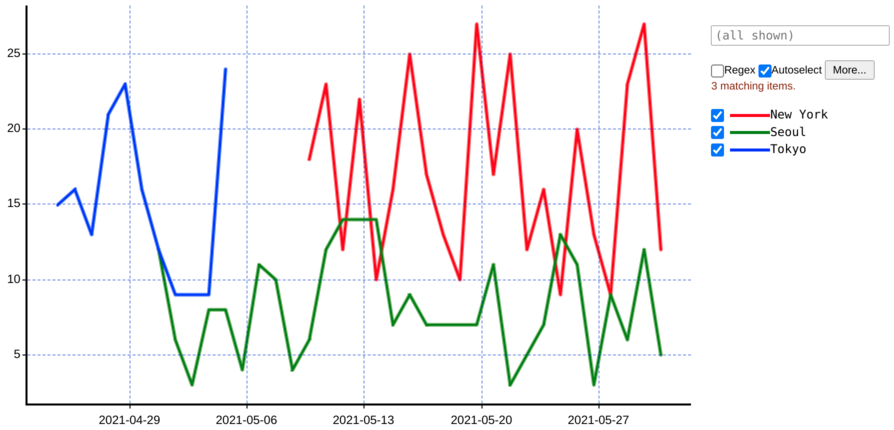
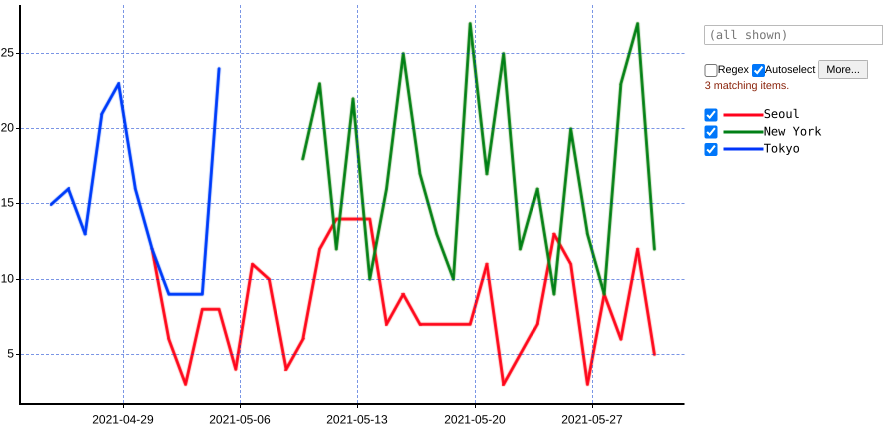
Added `groupby` as a convenient alternative for `start_idxs`.

diff --git a/src/croquis/fig_data.py b/src/croquis/fig_data.py
@@ -6,7 +6,7 @@ import logging
 
 import numpy as np
 
-from . import color_util
+from . import color_util, data_util
 from .buf_util import ensure_buffer
 
 logger = logging.getLogger(__name__)
@@ -17,6 +17,10 @@ class FigData(object):
         # cycles.
         self.start_item_id = parent.next_item_id
         self.item_cnt = 0  # Should be filled in by subclass.
+
+        # For checking that the parameters have consistent dimensions.
+        self.dim_info = []
+        self.dims = collections.defaultdict(dict)
 
     # Subclasses may override this.  The default function assumes the existence
     # of self.colors.
@@ -76,15 +80,31 @@ class FigData(object):
             'data_y': _data_coord('y', Y[best_idx]),
         }
 
-    def _get_dims(self, name, data, dim_names, min_dims=1):
+    # Record the dimensions of parameter `data` (with name `name`), where each
+    # dimension is named using `dim_names`.
+    #
+    # If multi-dimensional lists are possible (e.g., X = [[1,2],[3,4]]), the
+    # caller must first call ensure_buffer() (which in turn numpy-fies the data)
+    # so that we can infer the correct dimension.
+    #
+    # Due to broadcast logic, not all dimensions need to be present.  E.g., if
+    # dim_names == ('lines', 'pts'), then `data` can have shape (200,), in which
+    # case we only record `pts == 200` (`lines` will be absent).
+    def _record_dims(self, name, data, dim_names, min_dims=1):
         assert type(dim_names) == tuple
-        self.dim_info.append((name, data.shape))
+        try:
+            shape = data.shape
+        except AttributeError:
+            shape = (len(data),)
 
-        assert min_dims <= len(data.shape) <= len(dim_names)
-        dim_names = dim_names[-len(data.shape):]
-        for dim_name, sz in zip(dim_names, data.shape):
+        self.dim_info.append((name, shape))
+
+        assert min_dims <= len(shape) <= len(dim_names)
+        dim_names = dim_names[-len(shape):]
+        for dim_name, sz in zip(dim_names, shape):
             self.dims[dim_name][name] = sz
 
+    # Verify that the dimensions recorded via _record_dims() are consistent.
     def _verify_dims(self, dim_name, default=None, must=None):
         def _raise(msg):
             raise ValueError(
@@ -136,12 +156,10 @@ class RectangularLineData(FigData):
         # `lines`: number of lines (= items).
         # `pts`: number of points per line.
         # `rgb': duh.
-        self.dim_info = []
-        self.dims = collections.defaultdict(dict)
-        self._get_dims('X', self.X, ('lines', 'pts'))
-        self._get_dims('Y', self.Y, ('lines', 'pts'))
+        self._record_dims('X', self.X, ('lines', 'pts'))
+        self._record_dims('Y', self.Y, ('lines', 'pts'))
         if colors is not None:
-            self._get_dims('colors', self.colors, ('lines', 'rgb'))
+            self._record_dims('colors', self.colors, ('lines', 'rgb'))
 
         self.item_cnt = self._verify_dims('lines', 1)
         self.pts_cnt = self._verify_dims('pts')
@@ -176,28 +194,42 @@ class FreeformLineData(FigData):
         copy_data = kwargs.pop('copy_data', True)
         self.X = ensure_buffer(X, copy_data=copy_data)
         self.Y = ensure_buffer(Y, copy_data=copy_data)
-        self.start_idxs = ensure_buffer(
-            kwargs.pop('start_idxs'), copy_data=copy_data)
+        self._record_dims('X', self.X, ('pts',))
+        self._record_dims('Y', self.Y, ('pts',))
+
+        if 'groupby' in kwargs:
+            assert 'start_idxs' not in kwargs, \
+                   '`groupby` and `start_idxs` cannot appear together!'
+            groupby = kwargs.pop('groupby')
+
+            self._record_dims('groupby', groupby, ('pts',))
+            self.total_pts_cnt = self._verify_dims('pts')
+
+            unique_keys, idxs, start_idxs = data_util.compute_groupby(groupby)
+
+            self._record_dims('unique_keys', unique_keys, ('lines',))
+
+            self.X = ensure_buffer((np.asarray(self.X))[idxs], copy_data=False)
+            self.Y = ensure_buffer((np.asarray(self.Y))[idxs], copy_data=False)
+            self.start_idxs = ensure_buffer(start_idxs, copy_data=False)
+
+            if ('label' not in kwargs) and ('labels' not in kwargs):
+                kwargs['labels'] = [str(k) for k in unique_keys]
+
+        else:
+            self.start_idxs = ensure_buffer(
+                kwargs.pop('start_idxs'), copy_data=copy_data)
+            self._record_dims('start_idxs', self.start_idxs, ('lines',))
+            self.total_pts_cnt = self._verify_dims('pts')
+
         if colors is not None:
             self.colors = ensure_buffer(colors, copy_data=copy_data)
-
-        # `lines`: number of lines (= items).
-        # `pts`: number of *all* the points.
-        # `rgb': duh.
-        self.dim_info = []
-        self.dims = collections.defaultdict(dict)
-        self._get_dims('X', self.X, ('pts',))
-        self._get_dims('Y', self.Y, ('pts',))
-        self._get_dims('start_idxs', self.start_idxs, ('lines',))
-        if colors is not None:
-            self._get_dims('colors', self.colors, ('lines', 'rgb'))
-
-        self.item_cnt = self._verify_dims('lines', 1)
-        self.total_pts_cnt = self._verify_dims('pts')
-
-        if colors is not None:
+            self._record_dims('colors', self.colors, ('lines', 'rgb'))
+            self.item_cnt = self._verify_dims('lines', 1)
             self._verify_dims('rgb', must=3)
+
         else:
+            self.item_cnt = self._verify_dims('lines', 1)
             self.colors = ensure_buffer(
                 color_util.default_colors(self.start_item_id, self.item_cnt))
 
@@ -224,7 +256,7 @@ class FreeformLineData(FigData):
 # Create a figure of the appropriate class.
 # TODO: Support other types!
 def create_fig_data(parent, *args, **kwargs):
-    if 'start_idxs' in kwargs:
+    if ('start_idxs' in kwargs) or ('groupby' in kwargs):
         return FreeformLineData(parent, *args, **kwargs)
     else:
         return RectangularLineData(parent, *args, **kwargs)

diff --git a/src/croquis/data_util.py b/src/croquis/data_util.py
@@ -1,0 +1,50 @@
+# Miscellaneous utility functions for shuffling data.
+
+import numpy as np
+
+# Given a numpy array `keys` where the same key may be repeated multiple times,
+# construct the following:
+#
+# - `unique_keys`: contains each key just once, in the order they appear first.
+# - `idxs`: a map for shuffling data in `keys` so that key values are grouped
+#           together.
+# - `start_idxs`: contains the start index of each unique key in keys[idxs].
+#
+# For example if
+#   keys == ['foo', 'foo', 'bar', 'foo', 'qux', 'baz', 'baz', 'qux', 'baz'],
+#            0      1      2      3      4      5      6      7      8
+#   (total 9 rows with 4 unique keys)
+#
+# then the intermediate variables below are:
+#   unique == ['bar', 'baz', 'qoo', 'qux']
+#   idxs0 == [2 5 0 4]
+#   inverse == [2 2 0 2 3 1 1 3 1]
+#   counts == [1 3 3 2]
+#
+#   order = [2 0 3 1]
+#
+# and the return values are:
+#   unique_keys = ['foo', 'bar', 'qux', 'baz']  # in the order they appear
+#   idxs = [0 1 3 2 4 7 5 6 8]  # 0 1 3 == foo
+#                               # 2     == bar
+#                               # 4 7   == qux
+#                               # 5 6 8 == baz
+#   start_idxs = [0, 3, 4, 6, (9)]  # Only returns the first 4 numbers.
+def compute_groupby(keys):
+    unique, idxs0, inverse, counts = np.unique(
+        keys, return_index=True, return_inverse=True, return_counts=True)
+
+    order = np.argsort(idxs0, kind='stable')
+
+    try:
+        # This will succeed if `keys` is a numpy array.
+        unique_keys = keys[idxs0[order]]
+    except TypeError:
+        unique_keys = [keys[idxs0[i]] for i in order]
+
+    idxs = np.argsort(idxs0[inverse], kind='stable')
+
+    start_idxs = np.zeros(dtype=np.int64, shape=(len(unique_keys) + 1))
+    np.cumsum(counts[order], out=start_idxs[1:])
+
+    return unique_keys, idxs, start_idxs[:-1]

diff --git a/src/croquis/tests/data_util_test.py b/src/croquis/tests/data_util_test.py
@@ -1,0 +1,53 @@
+#!/usr/bin/env python3
+
+import os
+import sys
+
+curdir = os.path.dirname(os.path.realpath(sys.argv[0]))
+sys.path.insert(0, f'{curdir}/../..')
+
+os.environ['CROQUIS_UNITTEST'] = 'Y'
+from croquis import data_util
+
+import numpy as np
+
+gen = np.random.default_rng(12345)
+
+def run_test(nkeys, nrows):
+    key_idxs = gen.integers(0, nkeys, size=nrows)
+    keys = ['key%04d' % k for k in key_idxs]
+
+    unique_keys, idxs, start_idxs = data_util.compute_groupby(keys)
+
+    assert len(unique_keys) == len(set(unique_keys))
+    assert set(unique_keys) == set(keys)
+    assert set(idxs) == set(range(nrows))
+    assert len(start_idxs) == len(unique_keys)
+
+    assert start_idxs[0] == 0
+    for key_idx in range(len(start_idxs) - 1):
+        assert start_idxs[key_idx] < start_idxs[key_idx + 1]
+
+        # Verify that keys are added in the order of their first occurrence.
+        # (I.e., idxs[start_idxs[key_idx]] is the first occurrence of the key
+        # unique_keys[key_idx].)
+        assert idxs[start_idxs[key_idx]] < idxs[start_idxs[key_idx + 1]]
+
+    for key_idx, start_idx in enumerate(start_idxs):
+        next_idx = start_idxs[key_idx + 1] if key_idx < len(start_idxs) - 1 \
+                                           else nrows
+
+        for idx in range(start_idx + 1, next_idx):
+            assert idxs[idx] > idxs[idx - 1]
+
+        for idx in range(start_idx, next_idx):
+            assert keys[idxs[idx]] == unique_keys[key_idx]
+
+run_test(1, 1)
+run_test(1, 10000)
+run_test(10000, 10000)
+
+for nkeys in range(1, 100):
+    run_test(nkeys, 1000)
+
+print('All done!')

diff --git a/setup.py b/setup.py
@@ -104,7 +104,9 @@ if __name__ == '__main__':
         python_requires='>=3.6',
         install_requires=[
             'jinja2',
-            'numpy',
+
+            # Minimum version to support np.argsort(kind='stable').
+            'numpy>=1.15.0',
         ],
 
         ext_modules=[csrc],

diff --git a/doc/tutorial.md b/doc/tutorial.md
@@ -172,11 +172,33 @@ example, imagine [your data](ex6.csv) contains the following:
 
 Of course, you can read this data, iterate over unique values of `location`, and
 add lines one by one.  However, croquis also supports plotting multiple lines
-with different lengths, which is more efficient especially when the data is big.
-In order for that, you need to "squash" X and Y so that they are 1-dimensional
-arrays, and then supply another argument `start_idxs` which is the index inside
-X and Y where each new line starts.  See the comments on `start_idxs` in the
-[reference](reference.md) for details.
+with different lengths:
+
+(NOTE: `groupby` is not included in 0.1.0 release.)
+
+```
+df = pd.read_csv('ex6.csv')
+
+fig = croquis.plot(x_axis='timestamp')
+fig.add(pd.to_datetime(df.date), df.sales, groupby=df.location)
+fig.show()
+```
+
+Here, we also use pandas to transform date strings to datetime values.  In order
+to show dates, you have to create the plot object with `x_axis='timestamp'` -
+x coordinates can be given as either `np.datetime64` type or plain numbers (in
+which case it is interpreted as
+[POSIX timestamps](https://en.wikipedia.org/wiki/Unix_time)).
+
+![Irregular CSV example with timestamps](ex6.png)
+
+---
+
+In case the data is really big, there's also a more efficient method, provided
+that the points are already arranged so that points that belong to the same line
+appear in a consecutive chunk: you can supply another argument `start_idxs`,
+which is the index inside X and Y where each new line starts.  See the comments
+on `start_idxs` in the [reference](reference.md) for details.
 
 Creating `start_idxs` from CSV data needs a bit of fiddling:
 
@@ -187,7 +209,7 @@ df = pd.read_csv('ex6.csv')
 df = df.sort_values(['location', 'date'])
 
 # Create start_idxs.
-locations, counts = np.unique(df['location'].to_numpy(), return_counts=True)
+locations, counts = np.unique(df.location.to_numpy(), return_counts=True)
 start_idxs = np.zeros_like(counts)
 start_idxs[1:] = np.cumsum(counts)[:-1]
 
@@ -201,14 +223,6 @@ fig.add(pd.to_datetime(df.date), df.sales, start_idxs=start_idxs,
         labels=locations)
 fig.show()
 ```
-
-Here, we also use pandas to transform date strings to datetime values.  In order
-to show dates, you have to create the plot object with `x_axis='timestamp'` -
-x coordinates can be given as either `np.datetime64` type or plain numbers (in
-which case it is interpreted as
-[POSIX timestamps](https://en.wikipedia.org/wiki/Unix_time)).
-
-![Irregular CSV example with timestamps](ex6.png)
 
 ## The search box
 

diff --git a/doc/reference.md b/doc/reference.md
@@ -104,6 +104,37 @@ start_idxs = [0, 3, 8]
 fig.add(X, Y, start_idxs=start_idxs)
 ```
 
+* `groupby` (optional)
+
+  (Not included in 0.1.0 release.)
+
+  An alternative for `start_idxs`: when given, `X`, `Y`, and `groupby` must be
+  1-D arrays with the same size.  The elements of `groupby` can be of any type,
+  including string.  Each line is made of points that share the same value of
+  `groupby` - lines are arranged in the order of the first occurrence of the
+  point.
+
+  In addition, if `label`/`labels` are not given, the values of `groupby` are
+  also used as labels.
+
+  For example:
+
+```
+# Contains four lines, appearing in this order:
+#   'ICN' (3 points)
+#   'SFO' (1 point)
+#   'GMP' (2 points)
+#   'RDU' (3 points)
+X       = [    0,     1,     2,     3,     4,     5,     6,     7,     8]
+Y       = [   10,    11,    20,    12,    30,    40,    41,    31,    42]
+airport = ['ICN', 'ICN', 'SFO', 'ICN', 'GMP', 'RDU', 'RDU', 'GMP', 'RDU']
+
+fig.add(X, Y, groupby=airport, marker_size=10)
+```
+
+  NOTE: `groupby` internally works by calling `numpy.unique()` and re-arranging
+  the data, so it is less efficient than calling `start_idxs`.
+
 * `labels` (optional)
 
   If given, specifies the name of each line.  Must be a list of strings (or
